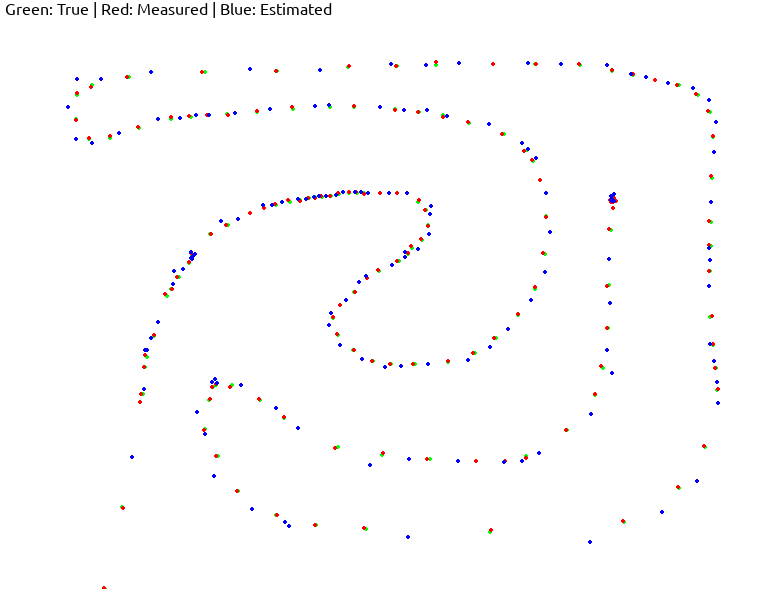
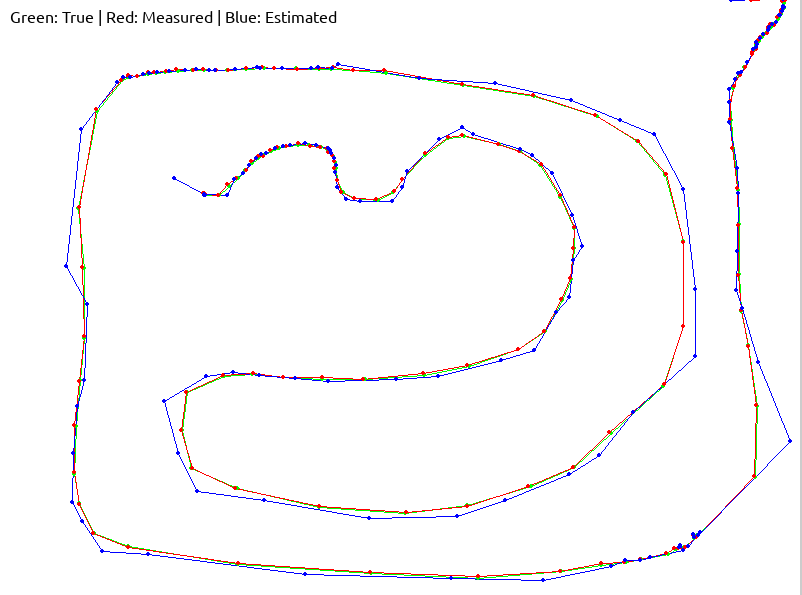
changed kalman filter visualization + added hypothetical EKF (x, y, theta)

diff --git a/main_state_estimation.py b/main_state_estimation.py
@@ -2,10 +2,15 @@ import numpy as np
 
 import pygame
 import argparse
-from filters import KalmanFilter
+from filters import KalmanFilter, ExtendedKalmanFilter, ParticleFilter
 
 
 if __name__ == "__main__":
+    parser = argparse.ArgumentParser()
+    parser.add_argument('--filter', help='choose between Kalman Filter (KF), Extended Kalman Filter (EKF) or Partical Filter (PF)')
+    args = parser.parse_args()
+    filter_name = args.filter
+
     pygame.init()
     w, h = 800, 600
     screen = pygame.display.set_mode((w, h))
@@ -13,9 +18,14 @@ if __name__ == "__main__":
     font = pygame.font.SysFont("Arial", 16)
 
     # initialize filter
-    filter = KalmanFilter()
-    x_est = np.array([w/2.0, h/2.0])  # initial state (center)
-    x_true = x_est.copy()
+    filter = None
+    if filter_name.lower() == "kf":
+        filter = KalmanFilter()
+    elif filter_name.lower() == "ekf":
+        filter = ExtendedKalmanFilter()
+    elif filter_name.lower() == "pf":
+        filter = ParticleFilter()
+    x_true = filter.x_est.copy()
 
     # initialize path
     true_path = []
@@ -29,24 +39,53 @@ if __name__ == "__main__":
             if event.type == pygame.QUIT:
                 running = False
         mouse_pos = np.array(pygame.mouse.get_pos(), dtype=float)    # original position
-        u = mouse_pos - x_true                                       # control
-        x_true = mouse_pos   
 
-        # predict
-        x_pred, P_pred = filter.predict(x_true, u)
+        if filter_name.lower() == "kf": 
+            u = mouse_pos - x_true                                       # control
+            x_true = mouse_pos   
 
-        # observe
-        z = filter.observe(x_true)           
-        
-        # update
-        x_est = filter.update(x_pred, P_pred, z)
+            # predict, observe, update
+            x_pred, P_pred = filter.predict(x_true, u)
+            z = filter.observe(x_true)           
+            filter.update(x_pred, P_pred, z)
 
-        # add point to the path
-        true_path.append(x_true.copy())
-        measured_path.append(z.copy())
-        estimated_path.append(x_est.copy())
+            # add point to the path
+            true_path.append(x_true.copy())
+            measured_path.append(z.copy())
+            estimated_path.append(filter.x_est.copy())
+
+        elif filter_name.lower() == "ekf": 
+            dx = mouse_pos - x_true[:2]
+            distance = np.linalg.norm(dx)
+            dtheta = 0.0  # For simplicity
+            u = np.array([distance, dtheta])
+            x_true[:2] = mouse_pos
+
+            # Predict, observe, update
+            filter.predict(u)
+            z = filter.observe(x_true)
+            filter.update(z)
+
+            # For visualization
+            true_path.append(x_true[:2].copy())
+            range_meas, bearing_meas = z
+            theta_est = filter.x_est[2]
+            meas_x = filter.x_est[0] + range_meas * np.cos(theta_est + bearing_meas)
+            meas_y = filter.x_est[1] + range_meas * np.sin(theta_est + bearing_meas)
+            measured_path.append(np.array([meas_x, meas_y]))
+            estimated_path.append(filter.x_est[:2].copy())
+            true_path.append(x_true[:2].copy())
 
         # Draw
+        # Draw paths as connected lines
+        if len(true_path) > 1:
+            pygame.draw.lines(screen, (0, 255, 0), False, [pt.astype(int) for pt in true_path], 1)
+        if len(measured_path) > 1:
+            pygame.draw.lines(screen, (255, 0, 0), False, [pt.astype(int) for pt in measured_path], 1)
+        if len(estimated_path) > 1:
+            pygame.draw.lines(screen, (0, 0, 255), False, [pt.astype(int) for pt in estimated_path], 1)
+
+        # draw circles on each point for clarity
         for pt in true_path:
             pygame.draw.circle(screen, (0, 255, 0), pt.astype(int), 2)
         for pt in measured_path:

diff --git a/filters.py b/filters.py
@@ -2,11 +2,14 @@ import numpy as np
 
 # Kalman Filter
 class KalmanFilter:
-    def __init__(self):
+    def __init__(self, w=800, h=600):
         # noise
         self.Q = np.diag([0.5, 0.5]) ** 2   # Process noise (predict)
         self.R = np.diag([1.0, 1.0]) ** 2   # Measurement noise (observe)
-        self.P = np.diag([5.0, 5.0])        # state covariance        
+        self.P = np.diag([5.0, 5.0])        # state covariance   
+
+        self.x_est = np.array([w/2.0, h/2.0])  # initial state (center)
+     
 
         # matrices
         self.A = np.eye(2)   # State transition matrix
@@ -30,9 +33,87 @@ class KalmanFilter:
 
         y = z - self.C @ x_pred                        # Innovation
 
-        x_est = x_pred + K @ y                         # updated state
+        self.x_est = x_pred + K @ y                         # updated state
         self.P = (np.eye(2) - K @ self.C) @ P_pred     # updated covariance 
-        return x_est
 
 
-# Extended Kalman Filter
+# Extended Kalman Filter -> local linearization for non linear functions using taylor expansion (with the help of jacobian - first order derivative)
+# how far are we from the actual scenario? It depends on two things, how non linear the function is (how far is the linear finction from the original) 
+# and how much initial uncertainty we have (state covariance)
+class ExtendedKalmanFilter:
+    def __init__(self, w=800, h=600, theta=0.0):
+        # State: [x, y, theta]
+        self.x_est = np.array([w/2.0, h/2.0, theta])      # Initial state estimate
+
+        # Covariances
+        self.P = np.diag([5.0, 5.0, np.deg2rad(10)])    # state covariance
+        self.Q = np.diag([0.5, 0.5, np.deg2rad(5)])**2  # Process noise (predict)
+        self.R = np.diag([1.0, np.deg2rad(5)])**2       # Measurement noise (observe)
+
+    # Normalize angle to [-π, π]
+    def normalize_angle(self, angle):
+        return (angle + np.pi) % (2 * np.pi) - np.pi
+    
+    # Nonlinear motion model
+    def f(self, x, u):
+        x_, y_, theta_ = x
+        dx, dtheta = u
+        theta_new = theta_ + dtheta
+        x_new = x_ + dx * np.cos(theta_new)
+        y_new = y_ + dx * np.sin(theta_new)
+        return np.array([x_new, y_new, theta_new])
+
+    # Jacobian of the motion model wrt state
+    def G(self, x, u):
+        _, _, theta = x
+        dx, dtheta = u
+        theta_new = theta + dtheta
+        return np.array([
+            [1, 0, -dx * np.sin(theta_new)],
+            [0, 1,  dx * np.cos(theta_new)],
+            [0, 0, 1]
+        ])
+
+    # Nonlinear observation model
+    def h(self, x):
+        x_, y_, theta_ = x
+        range_ = np.sqrt(x_**2 + y_**2)
+        bearing = np.arctan2(y_, x_) - theta_
+        return np.array([range_, self.normalize_angle(bearing)])
+
+    # Jacobian of the observation model wrt state
+    def H(self, x):
+        x_, y_, _ = x
+        q = x_**2 + y_**2
+        sqrt_q = np.sqrt(q)
+        return np.array([
+            [x_ / sqrt_q, y_ / sqrt_q, 0],
+            [-y_ / q,      x_ / q,     -1]
+        ])
+
+    # observe (with noise introduced)
+    def observe(self, x_true):
+        z_true = self.h(x_true)
+        noise = np.random.multivariate_normal([0, 0], self.R)
+        return z_true + noise
+
+    def predict(self, u):
+        x_pred = self.f(self.x_est, u)
+        G_t = self.G(self.x_est, u)
+        self.P = G_t @ self.P @ G_t.T + self.Q
+        self.x_est = x_pred
+
+    def update(self, z):
+        H_t = self.H(self.x_est)
+        z_pred = self.h(self.x_est)
+        y = z - z_pred
+        y[1] = self.normalize_angle(y[1])
+        S = H_t @ self.P @ H_t.T + self.R
+        K = self.P @ H_t.T @ np.linalg.inv(S)
+        self.x_est = self.x_est + K @ y
+        self.P = (np.eye(3) - K @ H_t) @ self.P
+
+class ParticleFilter:
+    def __init__(self):
+        pass
+    
